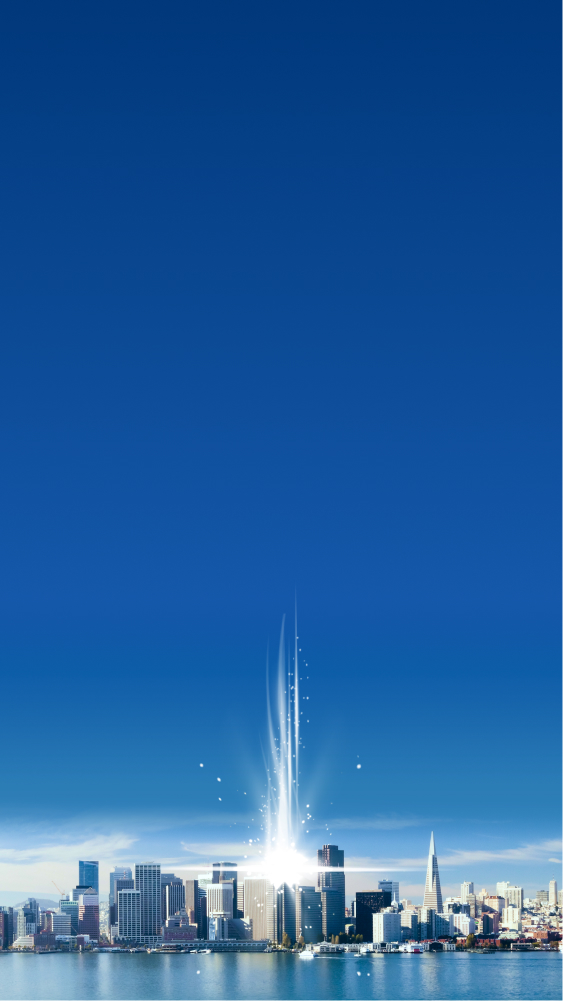
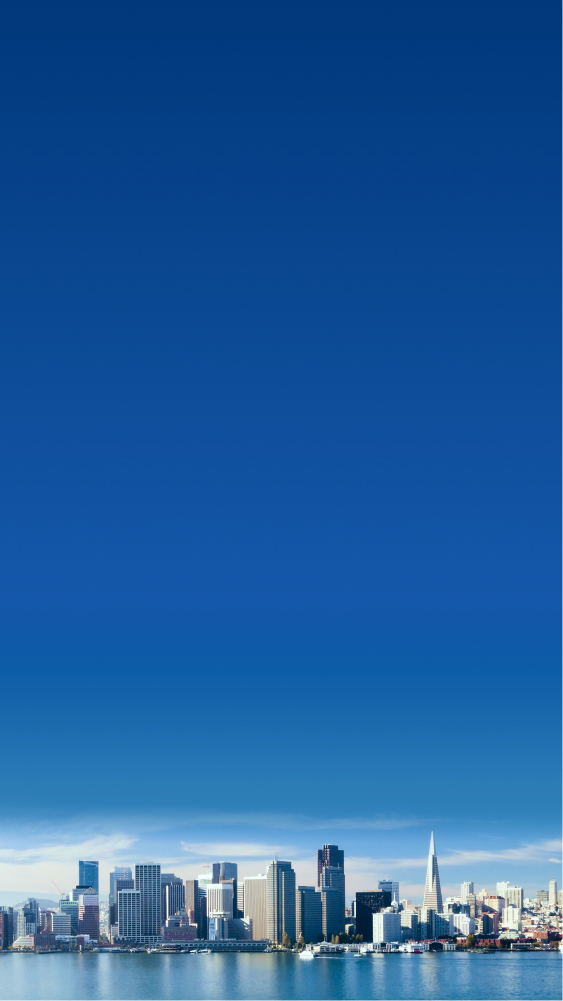
light

Changed region(s): [[0.3925, 0.6194, 0.6945, 0.96]]

diff --git a/src/section/s1.vue b/src/section/s1.vue
@@ -13,6 +13,7 @@
     </div>
     <img class="sun" src="@/section/s1/sun.png" alt="" srcset="">
     <img class="boat" src="@/section/s1/boat.png" alt="" srcset="">
+    <img class="light" v-if="$isMobile" src="@/section/s1/light.png" alt="">
   </article>
 </template>
 
@@ -89,6 +90,22 @@
     background: url('@/section/s1/bg_m.jpg');
     background-size: cover;
     gap: size-m(35);
+
+    .light {
+      @apply  mix-blend-screen pointer-events-none absolute;
+      width: 100%;
+      left: 0;
+      bottom: 0;
+      animation: light .5s alternate-reverse infinite;
+      @keyframes light {
+        from {
+          opacity: 50%;
+        }
+        to {
+          opacity: 100%;
+        }
+      }
+    }
   .sun {
     z-index: 3;
     width: size-m(200);
